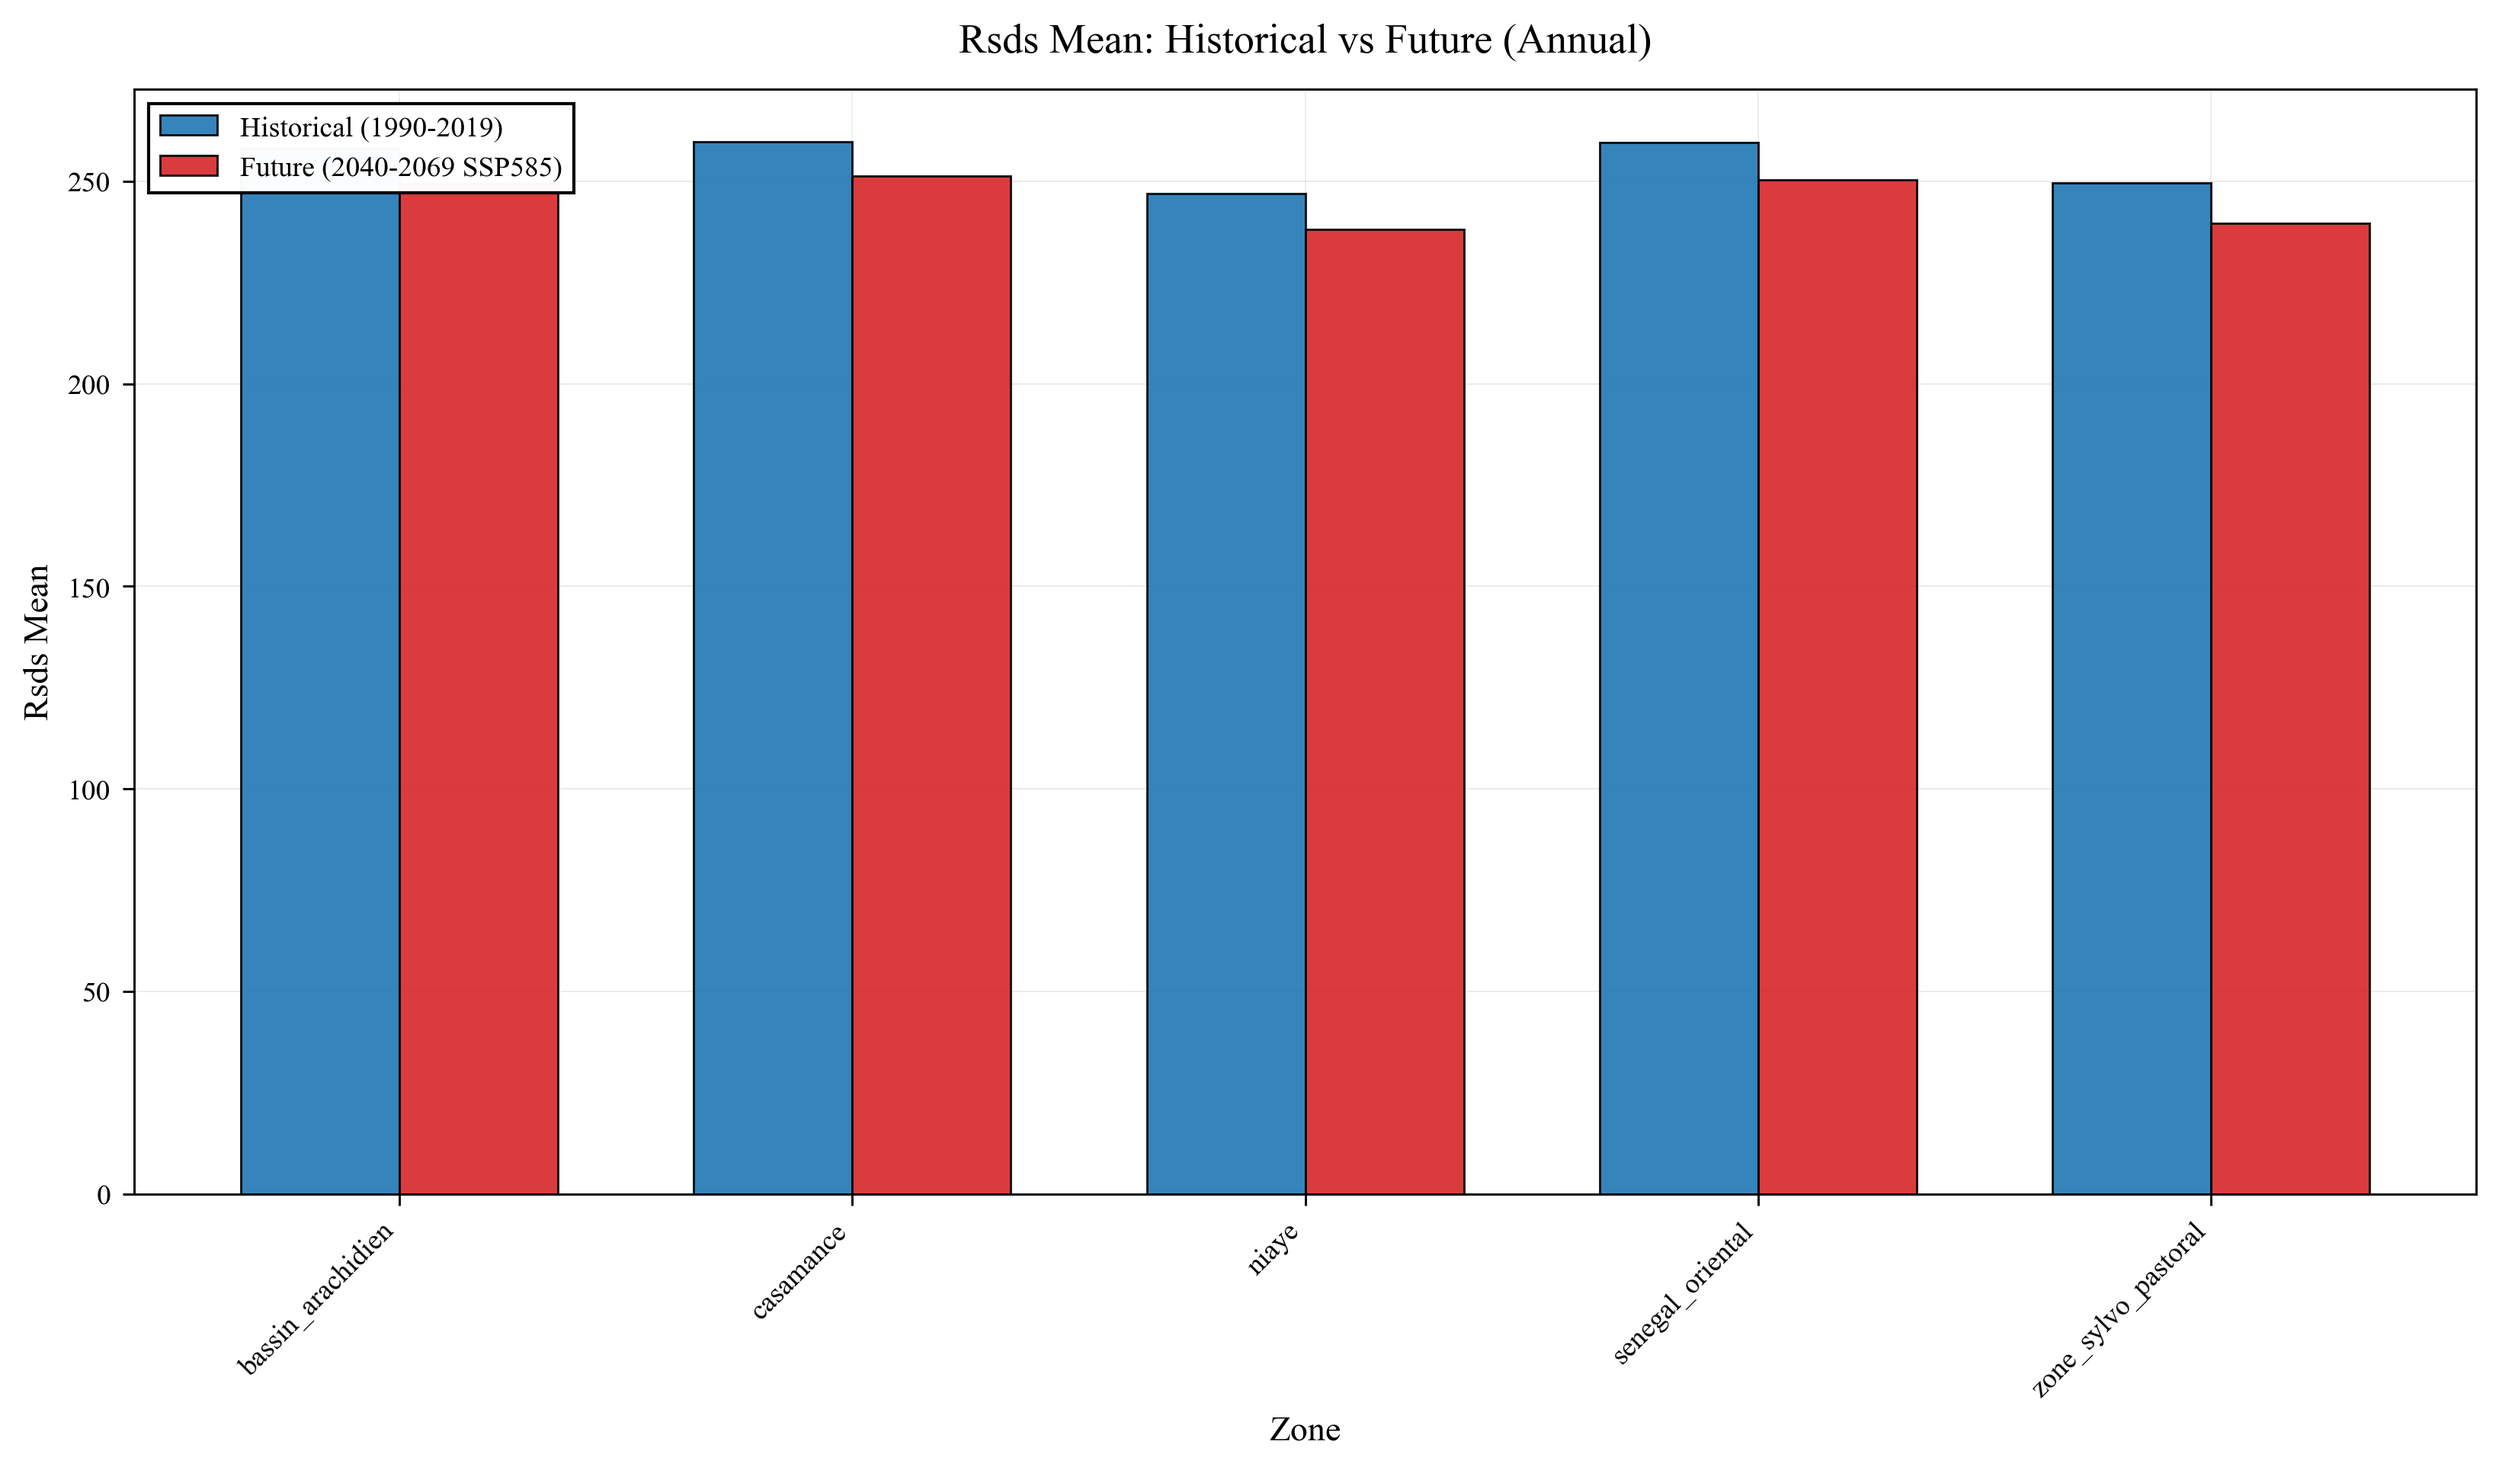
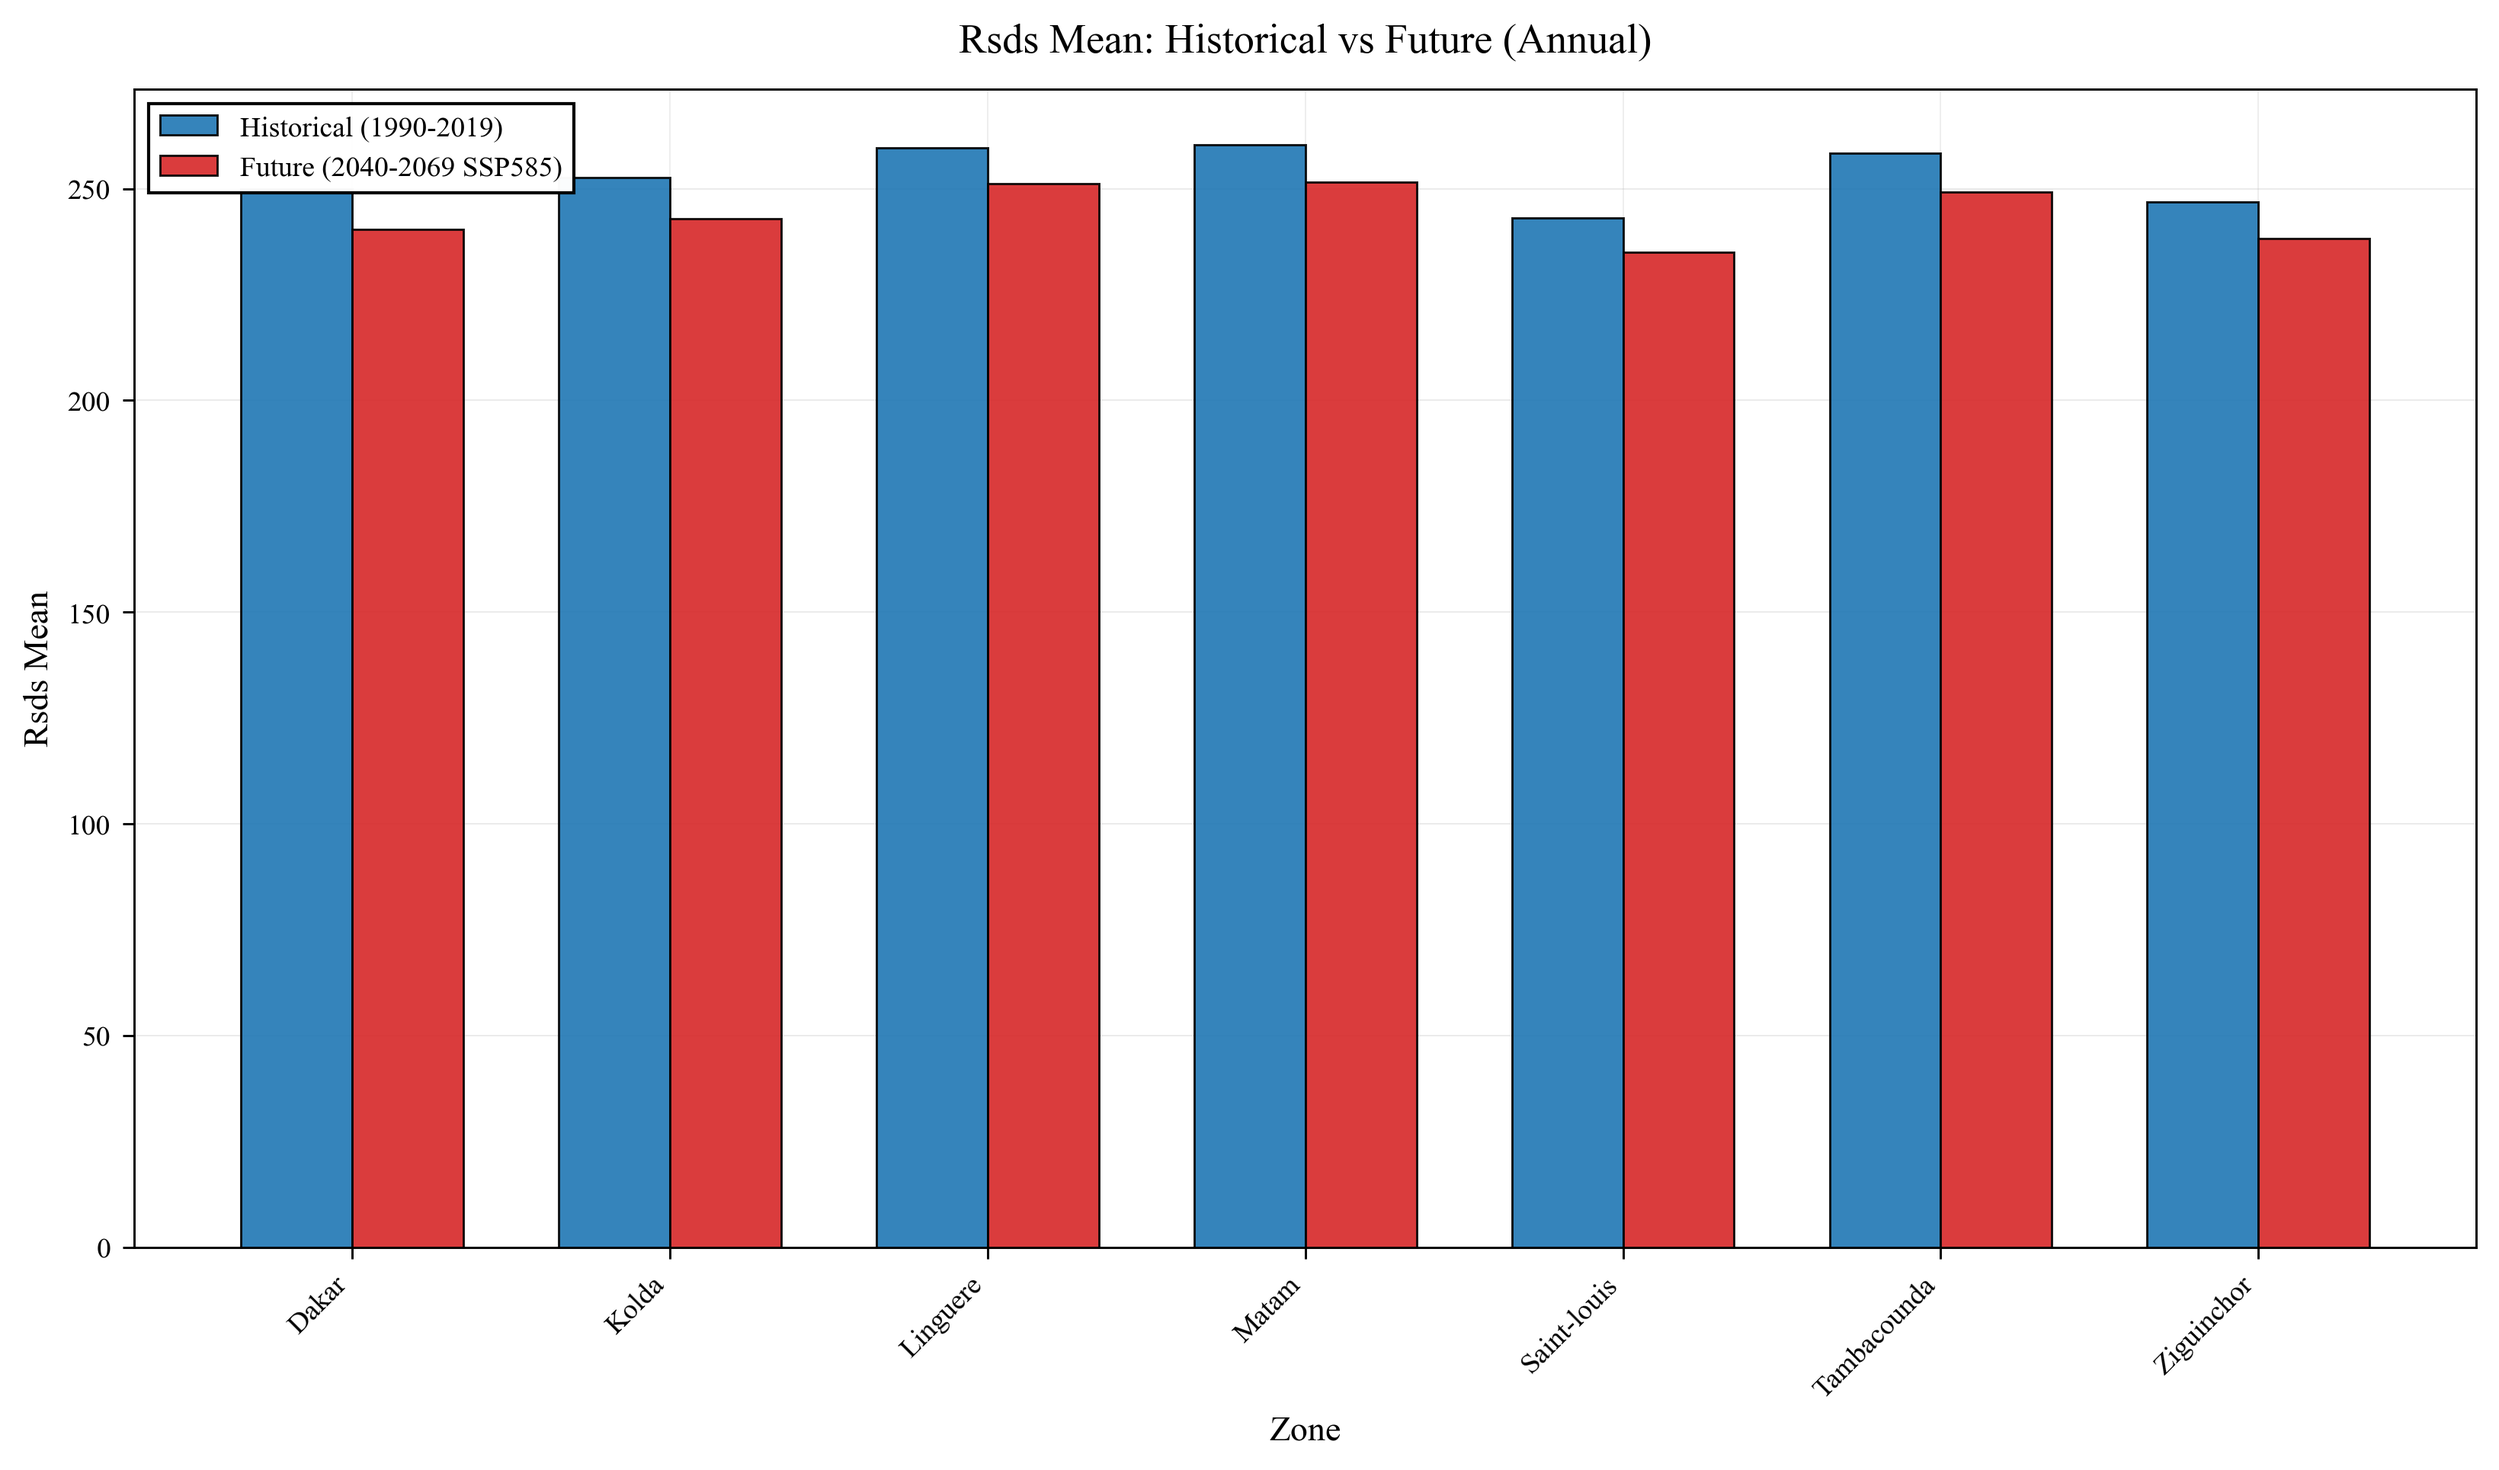
plotted with Regions Names Correctly

diff --git a/scripts/01_load_merge_datas.py b/scripts/01_load_merge_datas.py
@@ -26,6 +26,7 @@ def load_var(hist_file, fut_file, var_name):
         .str.strip()
         .str.lower()
         .str.replace(" ", "_")
+        .str.capitalize()
     )
 
     return df
@@ -65,6 +66,7 @@ def load_rsds(hist_file, fut_file):
         .str.strip()
         .str.lower()
         .str.replace(" ", "_")
+        .str.capitalize()
     )
 
     return df
